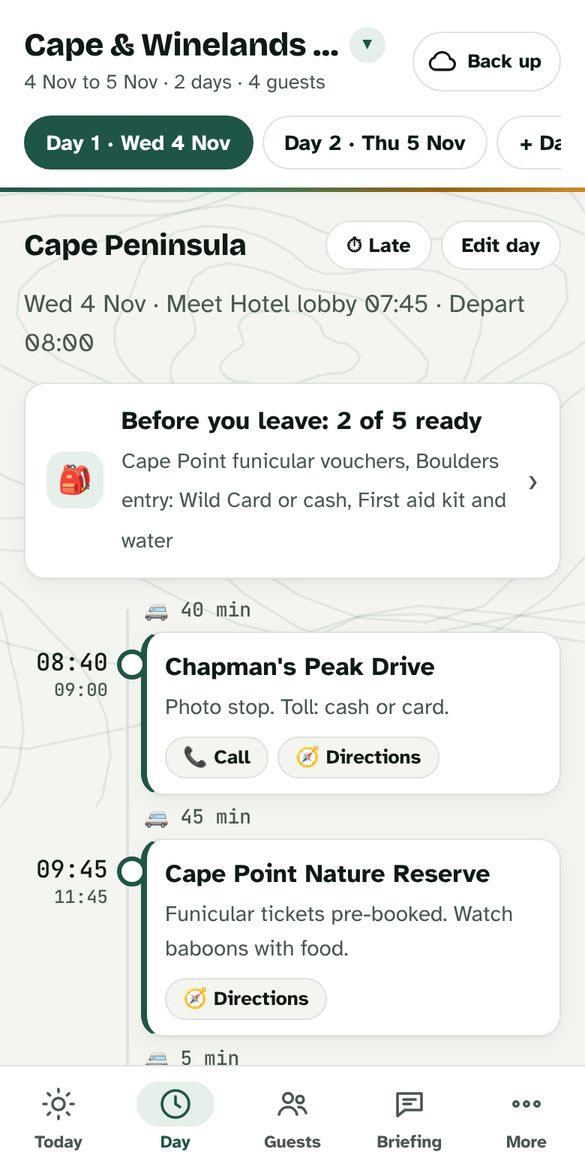
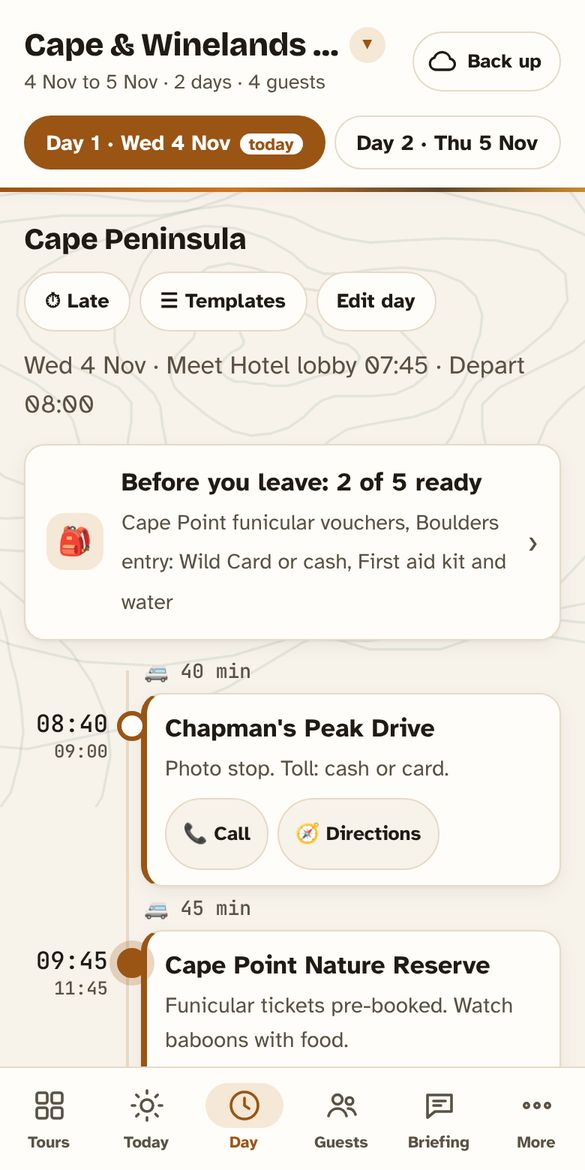
Guest list import without AI, Tours in the bottom bar and as the opening screen, ochre palette
- Import guest list (Guests and a prompt in Documents): Excel/CSV read on the phone, review, add or fill in
- Tours tab first in the bottom bar; app opens on Tours; Tours grouped by on tour, coming up, finished
- Palette: #CC7722 signature, #9A5414 for text and buttons, umber second colour; icons and landing screenshots updated
- Fix: Documents list no longer errors when leaving the screen while loading

Claude-Session: https://claude.ai/code/session_018UiXZK7UZvbaUVGs1HsDqT

diff --git a/site/index.html b/site/index.html
@@ -1,4 +1,4 @@
-<!doctype html><html lang="en-GB"><head><meta charset="utf-8"><meta name="viewport" content="width=device-width,initial-scale=1,viewport-fit=cover"><meta name="theme-color" content="#ffffff"><meta name="color-scheme" content="light"><link rel="manifest" href="manifest.webmanifest"><link rel="icon" href="icon-192.png"><link rel="apple-touch-icon" href="icon-192.png"><style>:root{padding-top:env(safe-area-inset-top,0px);padding-bottom:env(safe-area-inset-bottom,0px)}[hidden]{display:none!important}</style>
+<!doctype html><html lang="en-GB"><head><meta charset="utf-8"><meta name="viewport" content="width=device-width,initial-scale=1,viewport-fit=cover"><meta name="theme-color" content="#fffdf9"><meta name="color-scheme" content="light"><link rel="manifest" href="manifest.webmanifest"><link rel="icon" href="icon-192.png"><link rel="apple-touch-icon" href="icon-192.png"><style>:root{padding-top:env(safe-area-inset-top,0px);padding-bottom:env(safe-area-inset-bottom,0px)}[hidden]{display:none!important}</style>
 <title>Guidewise</title>
 <link rel="preconnect" href="https://fonts.googleapis.com">
 <link rel="stylesheet" href="https://fonts.googleapis.com/css2?family=Bricolage+Grotesque:opsz,wght@12..96,600;12..96,800&family=Atkinson+Hyperlegible:wght@400;700&family=JetBrains+Mono:wght@500&display=swap">
@@ -60,6 +60,25 @@ input:focus,textarea:focus,button:focus-visible{outline:2px solid var(--accent);
 .tcard.cur{border-color:var(--accent);box-shadow:0 0 0 1px var(--accent)}
 .topen{display:grid;gap:2px;width:100%;text-align:left;background:none;border:0;padding:0;font:inherit;color:inherit;cursor:pointer}
 .topen b{font:700 1.15rem var(--display)}
+.tline{display:flex;align-items:flex-start;justify-content:space-between;gap:8px}
+.tbadge{flex:none;font:700 .72rem var(--body);border-radius:999px;padding:3px 9px;background:var(--soft);color:var(--accent);white-space:nowrap;margin-top:3px}
+.tbadge.b-live{background:var(--ochre);color:#fff}.tbadge.b-next{background:#e3edf7;color:var(--sky)}.tbadge.b-done,.tbadge.b-nodate{background:var(--bg);color:var(--muted)}
+.tcard.live{border-color:var(--ochre);box-shadow:0 0 0 1px var(--ochre),var(--shadow)}
+.tmore summary{cursor:pointer;color:var(--muted);font:700 .82rem var(--body);margin-top:6px;list-style:none}
+.tmore summary::-webkit-details-marker{display:none}
+.tile .tic{font-size:1.2rem;font-weight:800;color:var(--accent)}
+nav button span{font-size:.68rem}
+/* Ochre palette (v15): #CC7722 is the signature; #9A5414 carries text and buttons so they stay readable in sun */
+:root{--bg:#f7f2ea;--surface:#fffdf9;--soft:#f6e8d6;--line:#e6dac8;--muted:#5a5144;--ink:#1f1a14;--accent:#9a5414;--accent-2:#cc7722;--brand:#cc7722;--ochre:#5e4429;--sand:#f6e9d6;--sky:#2f6ea5;--game:#5f7a2e}
+body{background-image:url(topo-earth.svg)}
+header::after{background:linear-gradient(90deg,var(--brand),#e09a45 55%,var(--ochre))}
+.hero{background:url(topo-w.svg) right -120px center/560px auto no-repeat,linear-gradient(150deg,#b86418 0%,#8a4a12 100%);box-shadow:0 10px 30px rgb(110 60 15 / .28)}
+.hello{background:linear-gradient(90deg,var(--brand),#8a4a12)}
+.tbadge.b-live{background:var(--brand);color:#1f1a14}.tbadge.b-next{background:var(--soft);color:var(--accent)}
+.tcard.live{border-color:var(--brand);box-shadow:0 0 0 1px var(--brand),var(--shadow)}
+nav button.on svg{background:#f6e1c4}
+.days button.on{background:var(--accent);border-color:var(--accent)}
+.days button .td{background:var(--brand);color:#1f1a14}
 .arch summary{cursor:pointer;font-weight:700;margin:18px 0 6px;color:var(--muted)}
 .inst{max-width:640px;margin:12px auto 0;box-sizing:border-box;display:flex;flex-wrap:wrap;gap:8px;align-items:center;justify-content:space-between;background:var(--soft);border:1px solid var(--line);border-radius:12px;padding:10px 12px;font-size:.92rem}
 @media (max-width:672px){.inst{margin:12px 16px 0}}
@@ -101,7 +120,7 @@ a.btn{text-decoration:none;display:inline-flex;align-items:center}
 .note{font-size:.92rem;color:var(--muted)}
 /* tabbar */
 nav{position:fixed;left:0;right:0;bottom:0;background:var(--surface);border-top:1px solid var(--line);padding-bottom:env(safe-area-inset-bottom,0px);padding-left:env(safe-area-inset-left,0px);padding-right:env(safe-area-inset-right,0px);z-index:6}
-nav .in{max-width:640px;margin:0 auto;display:grid;grid-template-columns:repeat(5,1fr)}
+nav .in{max-width:640px;margin:0 auto;display:grid;grid-template-columns:repeat(6,1fr)}
 nav button{background:none;border:0;padding:10px 0 12px;font:700 .72rem var(--body);min-width:0;color:var(--muted);cursor:pointer;display:grid;gap:3px;justify-items:center}
 nav button svg{width:24px;height:24px;stroke:currentColor;fill:none;stroke-width:1.8;stroke-linecap:round;stroke-linejoin:round}
 nav button.on{color:var(--accent);box-shadow:inset 0 3px 0 var(--accent)}
@@ -412,8 +431,8 @@ const icons={
  print:'<svg viewBox="0 0 24 24"><path d="M7 9V3h10v6"/><rect x="4" y="9" width="16" height="8" rx="2"/><path d="M7 14h10v7H7z"/></svg>',
  help:'<svg viewBox="0 0 24 24"><circle cx="12" cy="12" r="9"/><path d="M9.5 9.5a2.5 2.5 0 1 1 3.5 2.3c-.7.3-1 .9-1 1.7M12 17h.01"/></svg>'
 };
-const NAV=[['today','Today'],['plan','Day'],['guests','Guests'],['brief','Briefing'],['more','More']];
-const UNDER_MORE=['more','count','cash','late','report','venues','tpl','print','pack','docs','intel','acct','plus','import','home'];
+const NAV=[['home','Tours'],['today','Today'],['plan','Day'],['guests','Guests'],['brief','Briefing'],['more','More']];
+const UNDER_MORE=['gimport','more','count','cash','late','report','venues','tpl','print','pack','docs','intel','acct','plus','import'];
 const DAY_TABS=['plan','pack','brief','docs','late','report'];
 const names={home:'Home',plan:'Day plan',guests:'Guests',pack:'Checklist',brief:'Briefing',docs:'Documents',intel:'Local intel'};
 
@@ -426,7 +445,7 @@ function renderChrome(){
   const td=todayIso();
   $('#days').innerHTML=S.days.map((d,i)=>`<button class="${i===S.day?'on':''}" data-day="${i}">Day ${i+1} · ${esc(dLabel(d.date))}${d.date===td?'<span class="td">today</span>':''}</button>`).join('')+`<button data-addday="1" aria-label="Add a day">+ Day</button>`;
   const on=k=>k===tab||(k==='more'&&UNDER_MORE.includes(tab));
-  $('#tabs').innerHTML=NAV.map(([k,l])=>`<button class="${on(k)?'on':''}" data-tab="${k}" aria-label="${l}">${icons[k]}<span>${l}</span></button>`).join('');
+  $('#tabs').innerHTML=NAV.map(([k,l])=>`<button class="${on(k)?'on':''}" data-tab="${k}" aria-label="${l}">${icons[k==='home'?'tours':k]}<span>${l}</span></button>`).join('');
   const cur=$('#days .on');if(cur&&DAY_TABS.includes(tab))cur.scrollIntoView({inline:'center',block:'nearest'});
 }
 
@@ -792,9 +811,9 @@ function renderPlan(){
 
 function renderGuests(){
   const di=diets(),md=todayIso().slice(5);
-  let h=`<div class="bar"><h2>Guests (${S.guests.length})</h2><button class="pill" data-gadd="1">+ Add</button></div>`;
+  let h=`<div class="bar"><h2>Guests (${S.guests.length})</h2><span style="display:flex;gap:6px"><button class="pill" data-tab="gimport">⇪ Import list</button><button class="pill" data-gadd="1">+ Add</button></span></div>`;
   if(di.length)h+=`<p class="note">${di.length} dietary need${di.length>1?'s':''}, shown on every lunch stop.</p>`;
-  if(!S.guests.length)return h+`<div class="empty"><b>No guests yet</b><span class="note">Add rooms, birthdays and dietary needs, or import a rooming list.</span><div class="acts" style="justify-content:center"><button class="btn pri" data-gadd="1">Add a guest</button><button class="btn" data-tab="import">Import</button></div></div>`;
+  if(!S.guests.length)return h+`<div class="empty"><b>No guests yet</b><span class="note">Add rooms, birthdays and dietary needs, or import a rooming list.</span><div class="acts" style="justify-content:center"><button class="btn pri" data-tab="gimport">Import a guest list</button><button class="btn" data-gadd="1">Add a guest</button></div></div>`;
   S.guests.forEach((g,i)=>{
     if(i!==editG){const ini=(g.name||'?').split(/\s+/).filter(Boolean).slice(0,2).map(w=>w[0]).join('').toUpperCase();
       h+=`<button class="gl" data-gedit="${i}"><span class="av">${esc(ini||'?')}</span><span class="tx"><b>${esc(g.name)||'Unnamed guest'}</b><span class="note">${g.room?'Room '+esc(g.room):'No room yet'}</span>
@@ -868,23 +887,28 @@ function renderIntel(){
 }
 
 function renderHome(){
-  const today=new Date().toISOString().slice(0,10);
-  const list=T.tours.slice().sort((x,y)=>(tourMeta(x).a||'9999')<(tourMeta(y).a||'9999')?-1:1);
-  const card=t=>{const m=tourMeta(t),live=m.a&&m.a<=today&&m.b>=today,past=m.b&&m.b<today,g=t.guests.length;
-    return `<div class="tcard ${t.id===S.id?'cur':''}"><button class="topen" data-topen="${t.id}"><b>${esc(t.tour)||'Untitled tour'}</b>
-      <span class="note">${esc(m.range)} · ${t.days.length} day${t.days.length===1?'':'s'} · ${g} guest${g===1?'':'s'}</span>${live?'<span><span class="flag">On tour now</span></span>':past?'<span class="note">Finished</span>':''}</button>
-      <div class="acts" style="margin-top:8px"><button class="btn sm" data-tdup="${t.id}">Duplicate</button><button class="btn sm" data-tarc="${t.id}">${t.archived?'Restore':'Archive'}</button><button class="btn sm" data-tdel="${t.id}">Delete</button></div></div>`};
-  const act=list.filter(t=>!t.archived),arc=list.filter(t=>t.archived);
-  let h=`<h2>Your tours</h2><div class="acts"><button class="btn pri" data-tnew="1">+ New tour</button><button class="btn" data-tab="import">✦ Import from documents</button></div>`+(act.length?act.map(card).join(''):'<p class="note">No current tours. Start a new one above.</p>');
+  const today=todayIso(),act=T.tours.filter(t=>!t.archived),arc=T.tours.filter(t=>t.archived);
+  const meta=t=>{const m=tourMeta(t);let state,line;
+    if(m.a&&m.a<=today&&m.b>=today){const i=t.days.findIndex(d=>d.date===today);state='live';line=i>=0?`Day ${i+1} of ${t.days.length} today`:'On tour now'}
+    else if(m.a&&m.a>today){const n=daysBetween(today,m.a);state='next';line=n===1?'Starts tomorrow':`Starts in ${n} days`}
+    else if(m.b&&m.b<today){state='done';line='Finished'}else{state='nodate';line='No dates yet'};return{m,state,line}};
+  const card=t=>{const x=meta(t),g=t.guests.length;
+    return `<div class="tcard ${t.id===S.id?'cur':''} ${x.state==='live'?'live':''}"><button class="topen" data-topen="${t.id}"><span class="tline"><b>${esc(t.tour)||'Untitled tour'}</b><span class="tbadge b-${x.state}">${esc(x.line)}</span></span>
+      <span class="note">${esc(shortRange(x.m))} · ${t.days.length} day${t.days.length===1?'':'s'} · ${g} guest${g===1?'':'s'}</span></button>
+      <details class="tmore"><summary>More</summary><div class="acts" style="margin-top:6px"><button class="btn sm" data-tdup="${t.id}">Duplicate</button><button class="btn sm" data-tarc="${t.id}">${t.archived?'Restore':'Archive'}</button><button class="btn sm" data-tdel="${t.id}">Delete</button></div></details></div>`};
+  const grp=(k,title)=>{const L=act.filter(t=>meta(t).state===k).sort((a,b)=>{const x=tourMeta(a).a||'',y=tourMeta(b).a||'';return k==='done'?(x<y?1:-1):(x<y?-1:1)});return L.length?`<p class="eyebrow">${title}</p>${L.map(card).join('')}`:''};
+  let h=`<div class="bar"><h2>Your tours</h2></div><div class="tiles" style="margin-bottom:6px"><button class="tile t-plan" data-tnew="1"><span class="tic">＋</span><b>New tour</b><span>Start from scratch</span></button><button class="tile t-docs" data-tab="import"><span class="tic">✦</span><b>Import</b><span>From your itinerary</span></button></div>`;
+  h+=grp('live','On tour now')+grp('next','Coming up')+grp('nodate','No dates yet')+grp('done','Finished');
+  if(!act.length)h+=`<div class="empty"><b>No current tours</b><span class="note">Start a new tour or import one.</span></div>`;
   if(arc.length)h+=`<details class="arch"><summary>Archived (${arc.length})</summary>${arc.map(card).join('')}</details>`;
-  return h+`<p class="note">Tap a tour to open it. Duplicate copies the days and checklists without the guests, so you can reuse an itinerary.</p>`;
+  return h+`<p class="note">Tap a tour to open it. Under More: duplicate to reuse an itinerary (without guests), archive or delete.</p>`;
 }
 
 function render(){
   renderChrome();
   setTimeout(()=>{if(tab==='docs')fillDocs();if(tab==='plan')fillDayDocs();if(tab==='acct')fillAcct();if(tab==='import'&&window.fillImport)fillImport();if(['today','plan','brief'].includes(tab)){const fd=tab==='today'?S.days[focusDay().i]:D();ensureWx(fd)}if(tab==='intel')S.days.forEach(d=>ensureWx(d));},0);
-  const v={tpl:renderTpl,print:renderPrint,venues:renderVenues,welcome:renderWelcome,report:renderReport,today:renderToday,more:renderMore,count:renderCount,late:renderLate,cash:renderCash,home:renderHome,plan:renderPlan,guests:renderGuests,pack:renderPack,brief:renderBrief,docs:renderDocs,intel:renderIntel,plus:()=>(window.renderPlus?renderPlus():''),import:()=>(window.renderImport?renderImport():'<p class="note">Loading…</p>'),acct:window.renderAcct||(()=>'<p class="note">Backup is not available right now.</p>')}[tab]();
-  $('#main').innerHTML=v+(tab==='docs'||tab==='acct'||tab==='home'||tab==='plus'||tab==='import'||tab==='today'||tab==='more'||tab==='count'||tab==='late'||tab==='cash'||tab==='welcome'||tab==='report'||tab==='venues'||tab==='tpl'||tab==='print'?'':S.tour.includes('(sample)')?`<p class="sample">Sample tour loaded. Rename it and edit freely; your changes are saved in this browser. New here? <a href="setup.html">Setup guide</a></p>`:'');
+  const v={gimport:()=>(window.renderGImport?renderGImport():''),tpl:renderTpl,print:renderPrint,venues:renderVenues,welcome:renderWelcome,report:renderReport,today:renderToday,more:renderMore,count:renderCount,late:renderLate,cash:renderCash,home:renderHome,plan:renderPlan,guests:renderGuests,pack:renderPack,brief:renderBrief,docs:renderDocs,intel:renderIntel,plus:()=>(window.renderPlus?renderPlus():''),import:()=>(window.renderImport?renderImport():'<p class="note">Loading…</p>'),acct:window.renderAcct||(()=>'<p class="note">Backup is not available right now.</p>')}[tab]();
+  $('#main').innerHTML=v+(tab==='docs'||tab==='acct'||tab==='home'||tab==='plus'||tab==='import'||tab==='today'||tab==='more'||tab==='count'||tab==='late'||tab==='cash'||tab==='welcome'||tab==='report'||tab==='venues'||tab==='tpl'||tab==='print'||tab==='gimport'?'':S.tour.includes('(sample)')?`<p class="sample">Sample tour loaded. Rename it and edit freely; your changes are saved in this browser. New here? <a href="setup.html">Setup guide</a></p>`:'');
 }
 
 document.addEventListener('click',async e=>{
@@ -945,6 +969,7 @@ document.addEventListener('click',async e=>{
   if(ds.dopen){openDoc(+ds.dopen);return}
   if(ds.ddel){if(b.classList.contains('arm')){dbDel(+ds.ddel).then(fillDocs)}else{b.classList.add('arm');b.textContent='Delete?';setTimeout(()=>{b.classList.remove('arm');b.textContent='×'},3000)}return}
   if(ds.dfilter!==undefined){docFilter=ds.dfilter;fillDocs();return}
+  if(ds.docguests!==undefined){const r=docGuests;docGuests=null;if(ds.docguests==='1'&&r&&window.gwShowGuests)gwShowGuests(r);else render();return}
   if(ds.dpick){$('#docFile').click();return}
   if(ds.topen){openTour(ds.topen);return}
   if(ds.tnew){const nd=new Date();nd.setDate(nd.getDate()+1);const t={id:uid(),tour:'New tour',day:0,days:[newDay(nd.toISOString().slice(0,10))],guests:[],intel:[]};
@@ -1000,7 +1025,7 @@ document.addEventListener('input',e=>{
   save();
 });
 /* ---------- Documents: stored offline in IndexedDB ---------- */
-let docFilter='day';
+let docFilter='day',docGuests=null;
 const DB=new Promise((res,rej)=>{try{const r=indexedDB.open('guidewise-docs',1);r.onupgradeneeded=()=>r.result.createObjectStore('files',{keyPath:'id',autoIncrement:true});r.onsuccess=()=>res(r.result);r.onerror=()=>rej(r.error)}catch(e){rej(e)}});
 const tx=(mode,fn)=>DB.then(db=>new Promise((res,rej)=>{const t=db.transaction('files',mode);const st=t.objectStore('files');const out=fn(st);t.oncomplete=()=>res(out&&out.result!==undefined?out.result:undefined);t.onerror=()=>rej(t.error)}));
 const dbAll=()=>DB.then(db=>new Promise((res,rej)=>{const r=db.transaction('files').objectStore('files').getAll();r.onsuccess=()=>res(r.result);r.onerror=()=>rej(r.error)}));
@@ -1018,9 +1043,10 @@ async function addFiles(list){
   const day=($('#docDay')||{}).value??String(S.day);
   try{if(navigator.storage&&navigator.storage.persist)await navigator.storage.persist()}catch(e){}
   try{for(const f of files)await tx('readwrite',st=>st.add({tour:S.id,name:f.name,type:f.type||'application/octet-stream',size:f.size,day,added:new Date().toISOString().slice(0,10),blob:f}));
-    toast(files.length+' document'+(files.length>1?'s':'')+' added');window.onDocsChanged&&onDocsChanged()}
+    toast(files.length+' document'+(files.length>1?'s':'')+' added');window.onDocsChanged&&onDocsChanged();
+    for(const f of files){if(!/\.(xlsx|xlsm|csv)$/i.test(f.name)||!window.gwReadGuests)continue;try{const r=await gwReadGuests(f);if(r&&r.guests.length>=2){docGuests=r;break}}catch(e){}}}
   catch(e){toast('Could not save: phone storage may be full')}
-  fillDocs();
+  if(docGuests&&tab==='docs')render();else fillDocs();
 }
 async function openDoc(id){
   const f=await dbGet(id);if(!f)return;
@@ -1040,6 +1066,7 @@ function renderDocs(){
     <input type="file" id="docFile" multiple hidden accept="application/pdf,image/*,.doc,.docx,.xls,.xlsx,.ppt,.pptx,.txt,.csv,.eml">
   </div>
   <div class="seg" style="margin:14px 0 10px" id="docSeg"></div>
+  ${docGuests?`<div class="step hot" style="margin-top:12px"><span class="ic">👥</span><span class="tx"><b>This looks like a guest list: ${docGuests.guests.length} guests</b><span>Add them to Guests? Read on your phone, no AI.</span></span></div><div class="acts"><button class="btn pri" data-docguests="1">Review and add guests</button><button class="btn" data-docguests="0">Not now</button></div>`:''}
   <div id="docList"><p class="note">Loading documents…</p></div>
   <p class="note" id="docStore"></p>`;
 }
@@ -1047,6 +1074,7 @@ async function fillDocs(){
   const list=$('#docList');if(!list)return;
   let all=[];try{all=(await dbAll()).filter(docMine)}catch(e){list.innerHTML='<p class="note">Document storage is not available in this browser.</p>';return}
   const cur=String(S.day);
+  if(!$('#docSeg')||!document.body.contains(list))return; // left the screen while loading
   $('#docSeg').innerHTML=[['day','This day ('+all.filter(f=>f.day===cur||f.day==='all').length+')'],['tour','Whole tour only ('+all.filter(f=>f.day==='all').length+')'],['','Everything ('+all.length+')']].map(([k,l])=>`<button class="${docFilter===k?'on':''}" data-dfilter="${k}">${l}</button>`).join('');
   const shown=all.filter(f=>docFilter==='day'?(f.day===cur||f.day==='all'):docFilter==='tour'?f.day==='all':true).sort((a,b)=>(a.day==='all'?-1:+a.day)-(b.day==='all'?-1:+b.day)||b.id-a.id);
   list.innerHTML=shown.length?shown.map(f=>{const t=thumb(f);const opts=`<option value="all" ${f.day==='all'?'selected':''}>Whole tour</option>`+S.days.map((d,i)=>`<option value="${i}" ${f.day===String(i)?'selected':''}>Day ${i+1}</option>`).join('');
@@ -1065,6 +1093,7 @@ async function fillDayDocs(){
 }
 document.addEventListener('keydown',e=>{if(e.key==='Escape'&&panelOpen){panelOpen=false;renderChrome();return}if(e.key==='Enter'&&e.target.dataset&&e.target.dataset.dopen)openDoc(+e.target.dataset.dopen)});
 
+tab='home';
 try{if(!localStorage.getItem(ONB)&&T.tours.length===1&&S.tour.includes('(sample)'))tab='welcome'}catch(e){}
 render();
 if("serviceWorker" in navigator)addEventListener("load",()=>navigator.serviceWorker.register("sw.js").catch(()=>{}));

diff --git a/site/import.js b/site/import.js
@@ -232,4 +232,53 @@ document.addEventListener('change',async e=>{
   if(size>MAX_BYTES){mine.pop();err=ERR.too_large}
   paintImp();
 });
+/* ---------- Guest list import without AI: spreadsheet or CSV read on the phone ---------- */
+const GCOL={full:/^(guest|passenger|pax|client|traveller|traveler)?\s*(full\s*)?name$|^guest$|^passenger$|^names?$/i,first:/first|given|prefer/i,last:/last|surname|family/i,title:/^(title|salutation)$/i,
+  roomNo:/room\s*(no|number|#)?$|^room$|cabin|suite/i,roomType:/room\s*type|sharing|bed|occupancy|twin|double/i,diet:/diet|allerg|food|meal\s*pref/i,bday:/birth|\bdob\b|d\.o\.b|birthday/i,
+  notes:/note|remark|medical|mobility|special|request|celebrat|comment|occasion|vip|class/i};
+const cellTxt=c=>c?String(c.w??c.v??'').trim():'';
+function parseGuests(wb){
+  const X=window.XLSX;let best=null;
+  for(const nm of wb.SheetNames){const ws=wb.Sheets[nm];if(!ws['!ref'])continue;const r=X.utils.decode_range(ws['!ref']);
+    for(let y=r.s.r;y<=Math.min(r.e.r,r.s.r+40);y++){const hd=[];for(let x=r.s.c;x<=Math.min(r.e.c,r.s.c+60);x++)hd.push(cellTxt(ws[X.utils.encode_cell({r:y,c:x})]));
+      const col=k=>hd.findIndex(h=>h&&h.length<40&&!DROP.test(h)&&GCOL[k].test(h));
+      const m={full:col('full'),first:col('first'),last:col('last'),title:col('title'),roomNo:col('roomNo'),roomType:col('roomType'),diet:col('diet'),bday:col('bday'),notes:hd.map((h,i)=>h&&h.length<40&&!DROP.test(h)&&GCOL.notes.test(h)&&!GCOL.diet.test(h)?i:-1).filter(i=>i>=0)};
+      if(m.full<0&&m.first<0&&m.last<0)continue;
+      const guests=[];
+      for(let yy=y+1;yy<=Math.min(r.e.r,y+500);yy++){const v=k=>k>=0?cellTxt(ws[X.utils.encode_cell({r:yy,c:r.s.c+k})]):'';const raw=k=>k>=0?ws[X.utils.encode_cell({r:yy,c:r.s.c+k})]:null;
+        let name=m.full>=0?v(m.full):[v(m.first),v(m.last)].filter(Boolean).join(' ');
+        if(m.title>=0&&v(m.title)&&name)name=name; // titles left out on purpose
+        if(!name||/^(total|name|guest)s?$/i.test(name))continue;
+        const bc=raw(m.bday);const bd=bc?mmdd(bc.t==='n'?bc.v:cellTxt(bc)):'';
+        guests.push({name:scrubText(name),room:[v(m.roomNo),v(m.roomType)].filter(Boolean).join(' · '),diet:scrubText(v(m.diet)),bday:bd,notes:scrubText(m.notes.map(v).filter(Boolean).join(' · '))})}
+      const used=Object.entries(m).filter(([k,i])=>k!=='notes'&&k!=='title'&&i>=0).map(([k,i])=>[k,hd[i]]).concat(m.notes.map(i=>['notes',hd[i]]));
+      if(guests.length&&(!best||guests.length>best.guests.length))best={guests,used,sheet:nm};break}}
+  return best;
+}
+window.gwReadGuests=async f=>{const n=f.name.toLowerCase();if(!/\.(xlsx|xlsm|csv)$/.test(n))return null;const X=await loadXL();
+  const wb=n.endsWith('.csv')?X.read(await f.text(),{type:'string',raw:true}):X.read(await f.arrayBuffer(),{type:'array'});return parseGuests(wb)};
+let gl=null,glErr='';
+const GL_LBL={full:'Name',first:'First name',last:'Last name',roomNo:'Room',roomType:'Room type',diet:'Dietary',bday:'Birthday (day and month only)',notes:'Notes'};
+window.gwShowGuests=r=>{gl=r;glErr='';tab='gimport';render();scrollTo(0,0)};
+window.renderGImport=()=>{
+  let h=`<h2>Import guest list</h2><p class="note">Read on your phone from an Excel or CSV file: no AI, nothing leaves your phone. Passport, phone, email and address columns are ignored; dates of birth become day and month only.</p>`;
+  if(glErr)h+=`<div class="alert">${esc(glErr)}</div>`;
+  if(!gl)return h+`<div class="acts"><button class="btn pri" data-gl="pick">Choose a spreadsheet</button></div><input type="file" id="glFile" hidden accept=".xlsx,.xlsm,.csv"><p class="note">PDF or photo of a rooming list? Use <button class="rcpt" data-tab="import">✦ AI import</button> instead.</p>`;
+  const have=new Map(S.guests.map((g,i)=>[g.name.trim().toLowerCase(),i])),nNew=gl.guests.filter(g=>!have.has(g.name.trim().toLowerCase())).length,nUpd=gl.guests.length-nNew;
+  h+=`<div class="card"><b>Found ${gl.guests.length} guest${gl.guests.length===1?'':'s'}</b><span class="note">Matched columns: ${gl.used.map(([k,hd])=>`${esc(GL_LBL[k])} ← “${esc(hd)}”`).join(' · ')}</span></div>
+  <div class="list">${gl.guests.map(g=>`<div class="li" style="cursor:default"><span class="tx"><b>${esc(g.name)}${have.has(g.name.trim().toLowerCase())?' <span class="flag">already here</span>':''}</b><span>${[g.room&&'Room '+g.room,g.diet&&'🍽 '+g.diet,g.bday&&'🎂 '+g.bday,g.notes].filter(Boolean).map(esc).join(' · ')||'No details'}</span></span></div>`).join('')}</div>
+  <div class="acts"><button class="btn pri" data-gl="add">Add ${nNew} guest${nNew===1?'':'s'}${nUpd?` and fill in ${nUpd} existing`:''}</button><button class="btn" data-gl="cancel">Cancel</button></div>
+  <p class="note">Existing guests keep what you typed; only their empty fields are filled.</p>`;
+  return h;
+};
+document.addEventListener('click',e=>{const b=e.target.closest('[data-gl]');if(!b)return;const a=b.dataset.gl;
+  if(a==='pick'){$('#glFile').click();return}
+  if(a==='cancel'){gl=null;tab='guests';render();return}
+  if(a==='add'){const have=new Map(S.guests.map((g,i)=>[g.name.trim().toLowerCase(),i]));let n=0,u=0;
+    gl.guests.forEach(g=>{const i=have.get(g.name.trim().toLowerCase());if(i===undefined){S.guests.push(g);n++}else{const x=S.guests[i];['room','diet','bday','notes'].forEach(k=>{if(!x[k]&&g[k])x[k]=g[k]});u++}});
+    gl=null;save();tab='guests';render();toast(`${n} guest${n===1?'':'s'} added`+(u?`, ${u} filled in`:''));return}});
+document.addEventListener('change',async e=>{if(e.target.id!=='glFile')return;const f=e.target.files[0];e.target.value='';if(!f)return;
+  try{const r=await gwReadGuests(f);if(!r){glErr='No guest names found. Check the file has a heading row with "Name" (or first and last name).';gl=null}else{gl=r;glErr=''}}catch(x){glErr=x.message==='offline'?'Reading spreadsheets needs a signal the first time.':'Could not read that file. Use Excel (.xlsx) or CSV.'}
+  render()});
+
 })();

diff --git a/tests/smoke.js b/tests/smoke.js
@@ -11,15 +11,16 @@ const ok=(c,m)=>{console.log((c?'  ✓ ':'  ✗ ')+m);if(!c)fails++};
   await ctx.route(/geocoding-api\.open-meteo/,r=>r.fulfill({status:200,contentType:'application/json',headers:{'access-control-allow-origin':'*'},body:JSON.stringify({results:[{latitude:-34.19,longitude:18.43,name:'Simon\'s Town',country_code:'ZA'}]})}));
   await ctx.route(/\/\/api\.open-meteo/,r=>r.fulfill({status:200,contentType:'application/json',headers:{'access-control-allow-origin':'*'},body:JSON.stringify({daily:{time:['x'],weather_code:[61],temperature_2m_max:[21],temperature_2m_min:[14],precipitation_probability_max:[70],wind_speed_10m_max:[45],sunrise:['2026-11-03T05:32'],sunset:['2026-11-03T19:41']}})}));
   await ctx.route(/date\.nager\.at/,r=>r.fulfill({status:200,contentType:'application/json',headers:{'access-control-allow-origin':'*'},body:JSON.stringify([{date:new Date(Date.now()-new Date().getTimezoneOffset()*6e4).toISOString().slice(0,10),name:'Test Day',global:true}])}));
-  const pg=await ctx.newPage();pg.on('pageerror',e=>errs.push(e.message));
+  const pg=await ctx.newPage();pg.on('pageerror',e=>errs.push(e.message+' @ '+(e.stack||'').split('\n').slice(1,3).join(' ')));
   await pg.goto(BASE);await pg.evaluate(()=>localStorage.clear());await pg.reload();await pg.waitForTimeout(600);
 
   console.log('First run');
   ok(await pg.evaluate(()=>tab)==='welcome','welcome shows on a fresh install');
   await pg.click('[data-onb="sample"]');ok(await pg.evaluate(()=>tab==='today'&&localStorage.getItem('guidewise.onb')==='1'),'explore opens Today and is remembered');
+  await pg.reload();await pg.waitForTimeout(500);ok(await pg.evaluate(()=>tab==='home'),'app opens on Tours every time');
 
   console.log('Navigation');
-  for(const t of ['today','plan','guests','brief','more'])await pg.click(`nav [data-tab=${t}]`),ok(await pg.evaluate(t=>tab===t,t),`bottom bar opens ${t}`);
+  for(const t of ['home','today','plan','guests','brief','more'])await pg.click(`nav [data-tab=${t}]`),ok(await pg.evaluate(t=>tab===t,t),`bottom bar opens ${t}`);
   for(const t of ['pack','docs','intel','count','cash','late','report','venues','import','home','acct'])await pg.evaluate(t=>{tab=t;render()},t),ok(await pg.evaluate(()=>!!document.querySelector('#main').textContent.trim()),`${t} renders`);
 
   console.log('Day plan');
@@ -90,6 +91,16 @@ const ok=(c,m)=>{console.log((c?'  ✓ ':'  ✗ ')+m);if(!c)fails++};
   await pg.emulateMedia({media:'print'});ok(await pg.evaluate(()=>getComputedStyle(document.querySelector('header')).display==='none'&&getComputedStyle(document.querySelector('#printOut')).display==='block'),'print hides the app and shows only the printout');
   await pg.emulateMedia({media:'screen'});
 
+  console.log('Guest list import');
+  await pg.evaluate(()=>{S.guests=[];tab='gimport';render()});await pg.setInputFiles('#glFile',path.join(__dirname,'fixture-guests.csv'));await pg.waitForTimeout(900);
+  await pg.click('[data-gl="add"]');const gg=await pg.evaluate(()=>S.guests.map(g=>[g.name,g.room,g.diet,g.bday,g.notes].join('|')));
+  ok(gg.length===3&&gg.includes('Carol Example|12|Melon allergy|06-16|Queen bed'),'guest list import fills names, rooms, dietaries, birthdays, notes');
+  ok(!gg.join().includes('X123'),'passport numbers are never imported');
+  await pg.evaluate(()=>{S.guests=[];tab='docs';render()});await pg.setInputFiles('#docFile',path.join(__dirname,'fixture-guests.csv'));await pg.waitForTimeout(1200);
+  ok(await pg.$$eval('[data-docguests="1"]',x=>x.length)===1,'a guest list added to Documents offers to fill in Guests');
+  await pg.click('[data-docguests="1"]');await pg.click('[data-gl="add"]');ok(await pg.evaluate(()=>S.guests.length===3),'guests added from the Documents prompt');
+  await pg.evaluate(()=>{S.guests=[{name:'Robert Smith',room:'412',diet:'',bday:'',notes:''},{name:'Linda Smith',room:'412',diet:'Gluten free',bday:'11-05',notes:''},{name:'Megan Lee',room:'415',diet:'Vegetarian',bday:'',notes:''},{name:'Tom Lee',room:'415',diet:'Shellfish allergy',bday:'',notes:''}];save()});
+
   console.log('Headcount');
   await pg.evaluate(()=>{hc.clear();tab='count';render()});await pg.click('[data-hc="0"]');ok(/1 of 4/.test(await pg.textContent('.hc-top')),'counts guests on board');
 
@@ -142,7 +153,7 @@ const ok=(c,m)=>{console.log((c?'  ✓ ':'  ✗ ')+m);if(!c)fails++};
 
   console.log('Offline');
   await pg.goto(BASE);await pg.waitForTimeout(1200);await pg.reload();await pg.waitForTimeout(800);await ctx.setOffline(true);await pg.reload();await pg.waitForTimeout(800);
-  ok(await pg.evaluate(()=>document.querySelectorAll('nav button').length===5),'app opens with no signal');await ctx.setOffline(false);
+  ok(await pg.evaluate(()=>document.querySelectorAll('nav button').length===6),'app opens with no signal');await ctx.setOffline(false);
 
   ok(!errs.length,'no JavaScript errors'+(errs.length?': '+errs.join(' | '):''));
   await b.close();srv.kill();console.log(fails?`\n${fails} check(s) failed`:'\nAll checks passed');process.exit(fails?1:0);

diff --git a/site/guides.html b/site/guides.html
@@ -1,4 +1,4 @@
-<!doctype html><html lang="en-GB"><head><meta charset="utf-8"><meta name="viewport" content="width=device-width,initial-scale=1"><meta name="color-scheme" content="light"><meta name="theme-color" content="#1f5546">
+<!doctype html><html lang="en-GB"><head><meta charset="utf-8"><meta name="viewport" content="width=device-width,initial-scale=1"><meta name="color-scheme" content="light"><meta name="theme-color" content="#9a5414">
 <title>Guidewise · The tour guide's app. Tomorrow, sorted.</title>
 <meta name="description" content="Guidewise is the pocket app for tour guides: day plans that move with you, guests and dietaries, WhatsApp briefings, AI import of itineraries, weather, running late, cash and tips. Works offline.">
 <meta property="og:title" content="Guidewise · Tomorrow, sorted."><meta property="og:description" content="The pocket app for tour guides. Day plan, guests, WhatsApp briefing, AI import, offline."><meta property="og:image" content="img/app-today.jpg">
@@ -6,17 +6,17 @@
 <link rel="preconnect" href="https://fonts.googleapis.com">
 <link rel="stylesheet" href="https://fonts.googleapis.com/css2?family=Bricolage+Grotesque:opsz,wght@12..96,600;12..96,800&family=Atkinson+Hyperlegible:wght@400;700&display=swap">
 <style>
-:root{--bg:#f4f5f1;--surface:#fff;--ink:#0f1a15;--muted:#4a5750;--line:#dde3de;--accent:#1f5546;--accent-2:#2f7a63;--ochre:#94600f;--soft:#e6efe9;--sand:#f6efe2;--sky:#2f6ea5;--plum:#7a4b8c;--rose:#b2465a;--game:#3f7a34;
+:root{--bg:#f7f2ea;--surface:#fff;--ink:#0f1a15;--muted:#4a5750;--line:#dde3de;--accent:#9a5414;--accent-2:#cc7722;--ochre:#5e4429;--soft:#f6e8d6;--sand:#f6e9d6;--sky:#2f6ea5;--plum:#7a4b8c;--rose:#b2465a;--game:#3f7a34;
   --display:"Bricolage Grotesque",ui-sans-serif,system-ui,sans-serif;--body:"Atkinson Hyperlegible",ui-sans-serif,system-ui,sans-serif;--shadow:0 1px 2px rgb(15 26 21 / .05),0 8px 24px rgb(15 26 21 / .07)}
 *{box-sizing:border-box}
-body{margin:0;background:var(--bg) url(topo.svg) right -200px top -40px/900px auto no-repeat;color:var(--ink);font:18px/1.6 var(--body)}
+body{margin:0;background:var(--bg) url(topo-earth.svg) right -200px top -40px/900px auto no-repeat;color:var(--ink);font:18px/1.6 var(--body)}
 a{color:var(--accent)}
 .w{max-width:1080px;margin:0 auto;padding:0 20px}
 nav.top{display:flex;align-items:center;justify-content:space-between;gap:12px;padding:16px 0}
 .logo{display:flex;align-items:center;gap:10px;font:800 1.35rem var(--display);color:var(--ink);text-decoration:none}
 .logo img{width:36px;height:36px;border-radius:10px}
 .btn{display:inline-flex;align-items:center;justify-content:center;gap:8px;border-radius:999px;padding:13px 22px;font:700 1rem var(--body);text-decoration:none;border:0;cursor:pointer}
-.btn.pri{background:var(--accent);color:#fff;box-shadow:0 8px 20px rgb(31 85 70 / .25)}
+.btn.pri{background:var(--accent);color:#fff;box-shadow:0 8px 20px rgb(110 60 15 / .28)}
 .btn.ghost{background:var(--surface);color:var(--ink);border:1px solid var(--line)}
 .btn.sm{padding:9px 16px;font-size:.92rem}
 .hero{display:grid;gap:28px;align-items:center;padding:24px 0 40px}

diff --git a/site/setup.html b/site/setup.html
@@ -2,7 +2,7 @@
 <title>Set up Guidewise</title>
 <link rel="icon" href="icon-192.png">
 <style>
-:root{--bg:#f6f7f5;--surface:#fff;--ink:#111a16;--muted:#46534c;--line:#d6ddd8;--accent:#24584a;--soft:#e8f0eb;--ochre:#9a6212}
+:root{--bg:#f7f2ea;--surface:#fff;--ink:#111a16;--muted:#46534c;--line:#d6ddd8;--accent:#9a5414;--soft:#f6e8d6;--ochre:#9a6212}
 body{background:var(--bg);color:var(--ink);font:17px/1.6 "Atkinson Hyperlegible",ui-sans-serif,system-ui,sans-serif;margin:0}
 main{max-width:640px;margin:0 auto;padding:24px 16px 60px}
 h1{font-size:1.7rem;margin:0}h2{font-size:1.2rem;margin:30px 0 8px}h3{font-size:1rem;margin:16px 0 4px}
@@ -53,11 +53,11 @@ a{color:var(--accent)}
 
 <h2 id="first">2. Your first tour</h2>
 <p><b>Briefing</b> has a <b>Send on WhatsApp</b> button: it opens WhatsApp with the message ready, you pick the group and tap send.</p>
-<p>The bottom bar has five places: <b>Today</b>, <b>Day</b>, <b>Guests</b>, <b>Briefing</b> and <b>More</b>.</p>
+<p>Guidewise opens on <b>Tours</b>. The bottom bar has six places: <b>Tours</b>, <b>Today</b>, <b>Day</b>, <b>Guests</b>, <b>Briefing</b> and <b>More</b>.</p>
 <ol>
 <li><b>Today</b> shows the day that matters now (today, or your next tour day), what is on now and next, and your <b>next steps</b>: what to pack, the briefing to send, birthdays, dietary needs to pass on.</li>
 <li><b>Day</b>: your timeline. Tap <b>Edit day</b> to set the date, meeting point, departure time and stops with drive and stay minutes. All times move together. Tap <b>Done</b> when finished.</li>
-<li><b>Guests</b>: tap a guest to edit rooms, birthdays, dietary needs and notes. Dietaries show on every lunch stop. Birthdays alert you on the day.</li>
+<li><b>Guests</b>: tap <b>⇪ Import list</b> to read an Excel or CSV guest list on your phone (no AI), or tap a guest to edit rooms, birthdays, dietary needs and notes. Dietaries show on every lunch stop. Birthdays alert you on the day.</li>
 <li><b>Briefing</b>: tomorrow's WhatsApp message, ready to copy. It never includes birthdays or dietaries.</li>
 <li><b>More</b>: checklist, documents (readable with no signal), local intel, AI import, all tours and backup.</li>
 </ol>

diff --git a/site/sw.js b/site/sw.js
@@ -1,4 +1,4 @@
-const C='tp-v32';const F=['./','index.html','backup.js','import.js','vendor/supabase-2.45.4.js','privacy.html','setup.html','guides.html','terms.html','manifest.webmanifest','icon-192.png','icon-512.png','topo.svg','topo-w.svg'];
+const C='tp-v34';const F=['./','index.html','backup.js','import.js','vendor/supabase-2.45.4.js','privacy.html','setup.html','guides.html','terms.html','manifest.webmanifest','icon-192.png','icon-512.png','topo.svg','topo-w.svg','topo-earth.svg'];
 self.addEventListener('install',e=>{e.waitUntil(caches.open(C).then(c=>c.addAll(F)));self.skipWaiting()});
 self.addEventListener('activate',e=>{e.waitUntil(caches.keys().then(k=>Promise.all(k.filter(x=>x!==C).map(x=>caches.delete(x)))));self.clients.claim()});
 /* Own files: network first (so a new version shows at once when there is signal), saved copy when offline or slow.

diff --git a/site/privacy.html b/site/privacy.html
@@ -1,7 +1,7 @@
 <!doctype html><html lang="en-GB"><head><meta charset="utf-8"><meta name="viewport" content="width=device-width,initial-scale=1"><meta name="color-scheme" content="light">
 <title>Guidewise privacy notice</title>
 <style>
-:root{--bg:#f6f7f5;--ink:#111a16;--muted:#46534c;--accent:#24584a;--line:#d6ddd8}
+:root{--bg:#f7f2ea;--ink:#111a16;--muted:#46534c;--accent:#9a5414;--line:#d6ddd8}
 body{background:var(--bg);color:var(--ink);font:17px/1.6 "Atkinson Hyperlegible",ui-sans-serif,system-ui,sans-serif;margin:0}
 main{max-width:640px;margin:0 auto;padding:24px 16px 60px}
 h1{font-size:1.6rem;margin:0 0 4px}h2{font-size:1.15rem;margin:28px 0 8px}

diff --git a/site/terms.html b/site/terms.html
@@ -2,7 +2,7 @@
 <title>Guidewise terms and pricing</title>
 <link rel="icon" href="icon-192.png">
 <style>
-:root{--bg:#f6f7f5;--ink:#111a16;--muted:#46534c;--accent:#24584a;--line:#d6ddd8}
+:root{--bg:#f7f2ea;--ink:#111a16;--muted:#46534c;--accent:#9a5414;--line:#d6ddd8}
 body{background:var(--bg);color:var(--ink);font:17px/1.6 "Atkinson Hyperlegible",ui-sans-serif,system-ui,sans-serif;margin:0}
 main{max-width:640px;margin:0 auto;padding:24px 16px 60px}
 h1{font-size:1.6rem;margin:0 0 4px}h2{font-size:1.15rem;margin:28px 0 8px}

diff --git a/CLAUDE.md b/CLAUDE.md
@@ -10,7 +10,7 @@ Tagline idea: "Guidewise. Tomorrow, sorted."
 ## Files
 - site/: everything public (Netlify publish dir, set in netlify.toml). Nothing outside site/ is served
 - site/index.html: whole app (vanilla JS, no build step)
-- site/sw.js: service worker. Bump cache name tp-vN on every front-end change (currently tp-v32; own files are fetched network-first, cache when offline). New precached files go in its F list
+- site/sw.js: service worker. Bump cache name tp-vN on every front-end change (currently tp-v34; own files are fetched network-first, cache when offline). New precached files go in its F list
 - site/backup.js: cloud backup (sign-in, POPIA consent, passphrase, encrypt, sync). Shares globals with index.html
 - site/import.js: AI import (tab 'import', from Tours > Import from documents or the Docs tab; can use documents already saved in the tour). Loaded after backup.js and uses its globals (sb, user, plan, plus, refresh, SB_URL, SB_KEY)
 - site/vendor/xlsx-mini-0.18.5.js: SheetJS (Apache-2.0), lazy-loaded by import.js for .xlsx/.csv
@@ -20,7 +20,9 @@ Tagline idea: "Guidewise. Tomorrow, sorted."
 - site/manifest.webmanifest, site/icon-192.png, site/icon-512.png
 
 ## Design (v10)
-- Bottom bar: Today, Day, Guests, Briefing, More (More holds Checklist, Docs, Local intel, Import, All tours, Backup). Tour switcher at the top (tab name + dates ▾ opens #tpanel: tours ordered on tour, upcoming, undated, finished; + New tour, Import, rename, Manage tours). Day chips only on Day/Checklist/Briefing/Docs
+- Opens on Tours every time (tab 'home'; first run still shows the welcome). Bottom bar: Tours, Today, Day, Guests, Briefing, More. Tours page groups: On tour now, Coming up, No dates yet, Finished; actions under More per card
+- Palette (v15): ochre. #CC7722 (--brand) is the signature colour (header line, active nav, badges, highlights); #9A5414 (--accent) carries buttons and text for outdoor contrast; deep umber #5E4429 (--ochre var) is the second colour. White text never sits directly on #CC7722. Icons recoloured; topo-earth.svg background
+- Was: Today, Day, Guests, Briefing, More (More holds Checklist, Docs, Local intel, Import, All tours, Backup). Tour switcher at the top (tab name + dates ▾ opens #tpanel: tours ordered on tour, upcoming, undated, finished; + New tour, Import, rename, Manage tours). Day chips only on Day/Checklist/Briefing/Docs
 - Today (tab 'today', opening screen): focusDay() = today's tour day, else the next one; hero with now/next; nextSteps() gives up to 4 predictive actions (data-go="tab:dayIndex"); tiles; compact install hint
 - Look (v11): topo.svg / topo-w.svg contour graphics (body and Today hero), green-to-ochre accent line under the header, coloured next-step icons and tiles. Stop types inferred by kindOf() (meal, flight, wildlife, stay, free) colour the timeline
 - Briefing: 'Send on WhatsApp' opens wa.me/?text=… (data-wa=dayIndex), also from the Today hero; Copy stays as fallback
@@ -34,6 +36,7 @@ Tagline idea: "Guidewise. Tomorrow, sorted."
 - Day templates (tab 'tpl', T.templates [{id,name,day}]): tplOf() keeps stops, times, venues, area, checklist (unticked); never dates, guests, logs. Use on the open day (replaces, confirm) or add as a new day
 - Receipts: cash entries of type 'out' can carry a photo (resized JPEG in the docs store, entry.rec = doc id, so it is backed up like any document); share all receipts via the Web Share API; deleting the entry deletes the photo
 - Print or PDF (tab 'print'): #printOut filled by printHTML(), @media print shows only it; whole tour or one day, rooming list, dietaries, optional guest notes, checklists. Never prints birthdays
+- Guest list import without AI (tab 'gimport', in import.js): reads .xlsx/.csv on the phone, matches Name or First/Last, Room/Room type, Dietary, DOB/Birthday (MM-DD), Notes/Requests; ignores private columns (DROP); review then add new and fill empty fields of existing. Adding a spreadsheet in Documents that holds 2+ guests offers the same
 - Venues (tab 'venues'): T.venues {key:{name,phone,addr,note}}, gathered from every tour's stops with a phone or address; add, edit, search, delete
 - Day and Guests are read-first (timeline / guest cards) with Edit day / tap-to-edit (editDay, editG). Keep new screens read-first with a clear primary action
 
